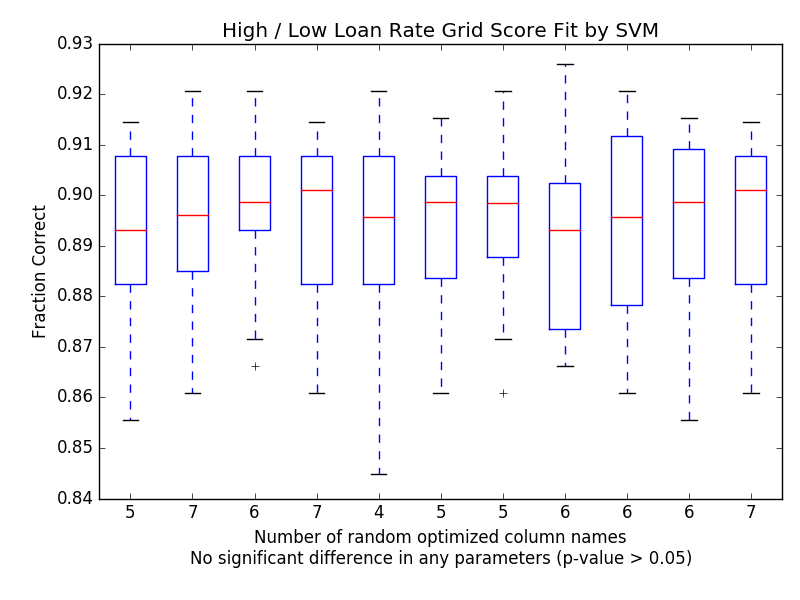
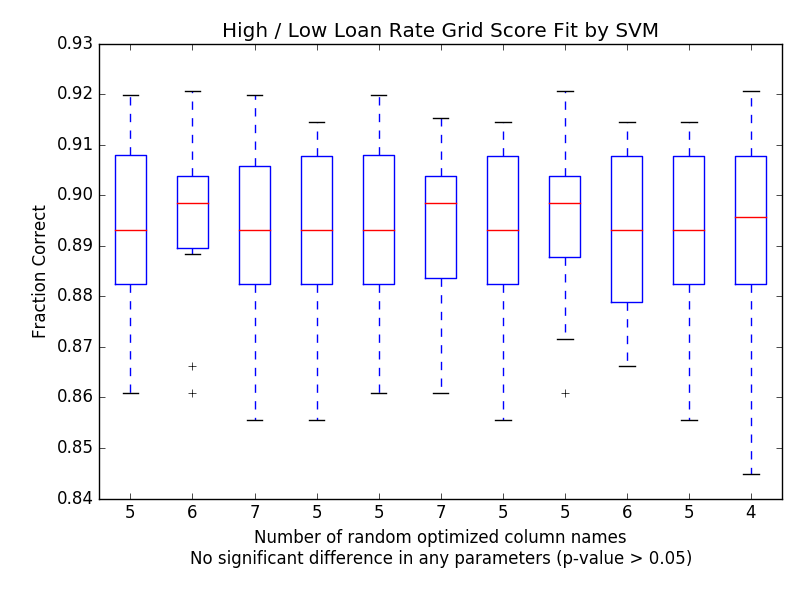
refactor methods to use parameterization

diff --git a/svm_predict.py b/svm_predict.py
@@ -16,14 +16,21 @@ import scipy.stats as sst
 from naive_bayes import read_data, get_var_str
 
 
+def get_app():
+    return 'SVM'
+
+def get_plotdir():
+    "get plot directory"
+    return 'svm_predict_plots/'
+
 def make_plotdir():
-    '''Make and return plot directory.'''
-    plotdir = 'svm_predict_plots/'
+    "make plot directory on file system"
+    plotdir = get_plotdir()
     if not os.access(plotdir, os.F_OK):
         os.mkdir(plotdir)
     return plotdir
 
-def gridscore_boxplot(gslist, plotdir, label, xlabel):
+def gridscore_boxplot(gslist, plotdir, app, label, xlabel):
     '''Set up boxplot of grid scores.'''
     vals = list(map(lambda e: e.cv_validation_scores, gslist))
     labs = list(map(lambda e: list(e.parameters.values()), gslist))
@@ -39,9 +46,9 @@ def gridscore_boxplot(gslist, plotdir, label, xlabel):
         xpar = xpar[0]
     xlabel = "Parameters: " + xpar + " (with " + xlabel + ")"
     plotfile = plotdir + "gridscore_" + label
-    do_boxplot(vals, labs, xlabel, plotfile)
+    do_boxplot(vals, labs, app, xlabel, plotfile)
 
-def do_boxplot(vals, labs, xlabel, plotfile):
+def do_boxplot(vals, labs, app, xlabel, plotfile):
     '''Create boxplot of value arrays with t-tests.'''
     is_sig = do_ttests(vals)
     if is_sig:
@@ -50,7 +57,7 @@ def do_boxplot(vals, labs, xlabel, plotfile):
         sig = "No significant difference in any parameters (p-value > 0.05)"
     plt.clf()
     plt.boxplot(vals, labels=labs)
-    plt.title("High / Low Loan Rate Grid Score Fit by SVM")
+    plt.title("High / Low Loan Rate Grid Score Fit by " + app)
     plt.xlabel(xlabel + "\n" + sig)
     plt.ylabel("Fraction Correct")
     plt.tight_layout()
@@ -75,7 +82,7 @@ def do_ttests(vals):
         print("Significant difference between some parameters (p-values < 0.05).")
     return is_sig
     
-def plot_predict(plotdir, label, indep_variables, pred_df, theo=False):
+def plot_predict(plotdir, label, app, indep_variables, pred_df, theo=False):
     '''Plot predicted correct and incorrect target values.'''
     incorrect = pred_df[ pred_df['target'] != pred_df['predict'] ]
     correct   = pred_df[ pred_df['target'] == pred_df['predict'] ]
@@ -93,7 +100,7 @@ def plot_predict(plotdir, label, indep_variables, pred_df, theo=False):
     plt.yticks(locs, map(lambda x: '$'+str(int(x/1000))+'k', locs))
     plt.xlabel('FICO Score')
     plt.ylabel('Loan Amount Requested, USD')
-    plt.title('SVM Predicted High / Low Interest Rate')
+    plt.title('High / Low Interest Rate Predicted by ' + app)
     score = 100 * float(len(correct)) / pred_df.shape[0]
     txt = "Score: %.1f%% correct" % (score)
     txt2 = "%d x, %d o" % (len(incorrect), len(correct))
@@ -104,6 +111,7 @@ def plot_predict(plotdir, label, indep_variables, pred_df, theo=False):
     txt, pos = get_var_str(indep_variables)
     plt.text(630, 38000 + 1500*(2-pos), txt, fontsize=10)
     pname = plotdir+label+'_svm_intrate_'
+# needs name refactoring
     if (theo):
         pname += 'theo'
     else:
@@ -127,11 +135,6 @@ def load_data():
     
     return loans_df, loans_y, test_df, test_y, all_numeric_vars
 
-def get_pred_df(test_df):
-    '''Init predicted variable dataframe, used for plotting.'''
-    two_variables = ['FICO.Score', 'Amount.Requested']
-    return pd.DataFrame( test_df[two_variables] )
-
 def scale_train_data(loans_df, print_out=False):
     '''Scale data for svm transform, read dataframe, return nparray.'''
     scaler = StandardScaler()
@@ -146,39 +149,34 @@ def scale_train_data(loans_df, print_out=False):
 def scale_test_data(scaler, test_df):
     return scaler.transform(test_df)
 
-def do_fit(loans_X, loans_y, print_out=False):
+def do_fit(clf, loans_X, loans_y, print_out=False):
     '''Fit training data.  Only for modeling use.'''
-    svc = svm.SVC(kernel='linear', C=0.1, cache_size=1000)
-    svc.fit(loans_X, loans_y)
-    fit_score = svc.score(loans_X, loans_y)
+    clf.fit(loans_X, loans_y)
+    fit_score = clf.score(loans_X, loans_y)
     if print_out:
-        print("svc params", svc.get_params())
-        print("svm fit done, score %.5f" % fit_score)  # 0.897
-    return svc, fit_score
+        print("params", clf.get_params())
+        print("fit done, score %.5f" % fit_score)  # 0.897
+    return fit_score
 
-def do_predict(svc, test_X, test_y, print_out=False):
+def do_predict(clf, test_X, test_y, print_out=False):
     '''Predict test data.  For modeling and production use.'''
-    pred_y = svc.predict( test_X )
+    pred_y = clf.predict( test_X )
     pred_correct = sum(pred_y == test_y)  # 0.909
     pred_score = pred_correct/test_y.shape[0]
     if print_out:
-        print("svm pred score %.5f (%d of %d)" % \
+        print("pred score %.5f (%d of %d)" % \
           (pred_score, pred_correct, test_y.shape[0]))
     return pred_y
-    
-def fit_predict(loans_X, loans_y, test_X, test_y):
-    '''Fit training data, predict pseudo-test data.  Only for modeling use.'''
-    svc, fit_score = do_fit(loans_X, loans_y, print_out=True)
-    pred_y = do_predict(svc, test_X, test_y, print_out=True)
-    return pred_y
 
-def set_predict_plot(pred_df, test_y, pred_y, indep_vars, label, plotdir):
+def predict_frame(test_df, test_y, pred_y):
     '''Plot predicted data.'''
+    two_variables = ['FICO.Score', 'Amount.Requested']
+    pred_df = pd.DataFrame( test_df[two_variables] )
     pred_df['target'] = test_y
     pred_df['predict'] = pred_y
-    plot_predict(plotdir, label, indep_vars, pred_df)
+    return pred_df
 
-def explore_params(loans_X, loans_y, plotdir):
+def explore_params(loans_X, loans_y, app, plotdir):
     '''Explore fit parameters on training data,
        grid search of fit scores, boxplot gridsearch results.'''
     clf = svm.SVC(kernel='linear', cache_size=1000)  # 3.1 s
@@ -191,7 +189,7 @@ def explore_params(loans_X, loans_y, plotdir):
       (gs.best_score_, gs.best_params_, gs.best_estimator_))
     # how to test if scores are significantly different?  stats!
 #    is_sig = do_ttests(gs.grid_scores_)
-    gridscore_boxplot(gs.grid_scores_, plotdir, "C", "kernel='linear'")
+    gridscore_boxplot(gs.grid_scores_, plotdir, app, "C", "kernel='linear'")
     
     clf = svm.SVC(kernel='rbf', cache_size=1000)  # 4.5 s
     param_grid = [{'gamma': [0.01, 0.03, 0.1, 0.3, 1.0, 3.0, 10.0]}]
@@ -201,7 +199,7 @@ def explore_params(loans_X, loans_y, plotdir):
     print("gs grid scores\n", gs.grid_scores_)
     print("gs best score %.5f %s\n%s" % \
       (gs.best_score_, gs.best_params_, gs.best_estimator_))
-    gridscore_boxplot(gs.grid_scores_, plotdir, "rbf_gamma", "kernel='rbf'")
+    gridscore_boxplot(gs.grid_scores_, plotdir, app, "rbf_gamma", "kernel='rbf'")
 
     clf = svm.SVC(kernel='rbf', cache_size=1000)  # 6.5 s
     param_grid = [{'gamma': [0.01, 0.03, 0.1, 0.3, 1.0], \
@@ -212,7 +210,7 @@ def explore_params(loans_X, loans_y, plotdir):
     print("gs grid scores\n", gs.grid_scores_)
     print("gs best score %.5f %s\n%s" % \
       (gs.best_score_, gs.best_params_, gs.best_estimator_))
-    gridscore_boxplot(gs.grid_scores_, plotdir, "rbf_gammaC", "kernel='rbf'")
+    gridscore_boxplot(gs.grid_scores_, plotdir, app, "rbf_gammaC", "kernel='rbf'")
 
     clf = svm.LinearSVC()   # 1.6 s  fast
     param_grid = [{'C': [0.01, 0.03, 0.1, 0.3, 1.0, 3.0, 10.0]}]
@@ -223,11 +221,10 @@ def explore_params(loans_X, loans_y, plotdir):
     print("gs grid scores\n", gs.grid_scores_)
     print("gs best score %.5f %s\n%s" % \
       (gs.best_score_, gs.best_params_, gs.best_estimator_))
-    gridscore_boxplot(gs.grid_scores_, plotdir, "LinearSVC", "LinearSVC")
+    gridscore_boxplot(gs.grid_scores_, plotdir, app, "LinearSVC", "LinearSVC")
 
-def cross_validate(loans_X, loans_y, print_out=False):
+def cross_validate(clf, loans_X, loans_y, print_out=False):
     '''Cross-validate fit scores.'''
-    clf = svm.SVC(kernel='linear', C=1.0, cache_size=1000)
     scores = cross_validation.cross_val_score(clf, loans_X, loans_y, cv=10)
     score = np.mean(scores)
     score_std = np.std(scores)
@@ -236,26 +233,25 @@ def cross_validate(loans_X, loans_y, print_out=False):
         print("CV raw scores", scores)
     return score, score_std, scores
 
-def get_cv_score(varlist, loans_df, loans_y):
+def get_cv_score(clf, varlist, loans_df, loans_y):
     '''Get cross-validated score from scaled data
        selected from variable list.  Used for varlist opt.'''
     loans_X, my_scaler = scale_train_data( loans_df[varlist] )
-# could return scores, compare t-tests
-    return cross_validate(loans_X, loans_y)
+    return cross_validate(clf, loans_X, loans_y)
 
-def random_opt(varlist, init_list, loans_df, loans_y):
+def random_opt(clf, varlist, init_list, loans_df, loans_y):
     '''Optimize list by randomly adding variables,
        accept if score decreases to find local minimum.'''
 
     vlist = list(init_list)
-    score, vstd, vscores = get_cv_score(vlist, loans_df, loans_y)
+    score, vstd, vscores = get_cv_score(clf, vlist, loans_df, loans_y)
     offset = len(vlist)  # offset by length of initial vlist
     indices = list(range(len(varlist) - offset))
     rnd.shuffle(indices)
     for ix in indices:
         ilist = list(vlist)
         ilist.append(varlist[ix + offset])
-        iscore, istd, iscores = get_cv_score(ilist, loans_df, loans_y)
+        iscore, istd, iscores = get_cv_score(clf, ilist, loans_df, loans_y)
         if iscore > score:
             vlist = list(ilist)
             score, vstd, vscores = iscore, istd, iscores
@@ -264,17 +260,17 @@ def random_opt(varlist, init_list, loans_df, loans_y):
     print("vlist %s" % (vlist))
     return score, vlist, vscores
 
-def run_opt(all_numeric_vars, loans_df, loans_y):
+def run_opt(clf, all_numeric_vars, loans_df, loans_y, app):
     '''Run randomized optimization with full list of independent numeric variables.
        Repeat many times to find global minimum.'''
 
     print('\nall_vars', all_numeric_vars)
     init_list = [all_numeric_vars[0], all_numeric_vars[1]]
     opt_list = list(init_list)
-    opt_score, ostd, oscores = get_cv_score(opt_list, loans_df, loans_y)
+    opt_score, ostd, oscores = get_cv_score(clf, opt_list, loans_df, loans_y)
     opt_raw_list = []
     for ix in range(len(all_numeric_vars)):
-        score, vlist, vscores = random_opt(all_numeric_vars, init_list, loans_df, loans_y)
+        score, vlist, vscores = random_opt(clf, all_numeric_vars, init_list, loans_df, loans_y)
         opt_raw_list.append({'plen': len(vlist), 'pscores': vscores})
         if score > opt_score:
             opt_list = vlist
@@ -282,8 +278,9 @@ def run_opt(all_numeric_vars, loans_df, loans_y):
 
     do_boxplot(list(map(lambda e: e['pscores'], opt_raw_list)), 
         list(map(lambda e: e['plen'], opt_raw_list)), 
+        app,
         "Number of random optimized column names",
-        make_plotdir()+"opt_params_boxplot")
+        get_plotdir() + "opt_params_boxplot")
     print(">>> opt len %d, opt_score %.4f" % (len(opt_list), opt_score))
     print("opt_list %s" % (opt_list))
     return opt_score, opt_list
@@ -291,37 +288,48 @@ def run_opt(all_numeric_vars, loans_df, loans_y):
 # main program
 def main():
     '''Main program.'''
+    app = get_app()
     loans_df, loans_y, test_df, test_y, all_numeric_vars = load_data()
+    indep_vars = all_numeric_vars
     loans_X, my_scaler = scale_train_data(loans_df, print_out=True)
     test_X = scale_test_data(my_scaler, test_df)
     plotdir = make_plotdir()
-    svc, fit_score = do_fit(loans_X, loans_y, print_out=True)
-    pred_y = do_predict(svc, test_X, test_y, print_out=True)
-    indep_vars = all_numeric_vars
-    pred_df = get_pred_df(test_df)
-    set_predict_plot(pred_df, test_y, pred_y, indep_vars, "allvar", plotdir)    
-    explore_params(loans_X, loans_y, plotdir)
-    cross_validate(loans_X, loans_y, print_out=True)
+    
+    clf = svm.SVC(kernel='linear', C=1, cache_size=1000)
+    do_fit(clf, loans_X, loans_y, print_out=True)
+    pred_y = do_predict(clf, test_X, test_y, print_out=True)
+    pred_df = predict_frame(test_df, test_y, pred_y)    
+    plot_predict(plotdir, "allvar", app, indep_vars, pred_df)
+    explore_params(loans_X, loans_y, app, plotdir)
+    
+    clf = svm.SVC(kernel='linear', C=1, cache_size=1000)
+    cross_validate(clf, loans_X, loans_y, print_out=True)
+    # what's the point of above 2 lines?  test sub-method on train data?
     
     # test optimization sub-method
     indep_vars = ['FICO.Score', 'Amount.Requested', 'Home.Type']
-    score, sstd, sscores = get_cv_score(indep_vars, loans_df, loans_y)
+    score, sstd, sscores = get_cv_score(clf, indep_vars, loans_df, loans_y)
     print("cv score: %.5f +- %.5f for %s" % (score, sstd, indep_vars))
 
 #   run optimization routine    
-    opt_score, opt_list = run_opt(all_numeric_vars, loans_df, loans_y)
+    clf = svm.SVC(kernel='linear', C=1, cache_size=1000)
+    opt_score, opt_list = run_opt(clf, all_numeric_vars, loans_df, loans_y, app)
 # optimums found all have the same score within std dev: 0.89 +- 0.03
 # svm is therefore less influenced by parameters chosen than naive_bayes
 
 #   plot results of optimized list
+    clf = svm.SVC(kernel='linear', C=1, cache_size=1000)
     loans_X, my_scaler = scale_train_data( loans_df[opt_list] )
     test_X = scale_test_data(my_scaler, test_df[opt_list])
-    cross_validate(loans_X, loans_y, print_out=True)
-    svc, fit_score = do_fit(loans_X, loans_y, print_out=True)
-    # optimum svc model from do_fit, use in do_predict
-    pred_y = do_predict(svc, test_X, test_y, print_out=True)
-#    pred_y = fit_predict(loans_X, loans_y, test_X, test_y)
-    set_predict_plot(pred_df, test_y, pred_y, opt_list, "optvar", plotdir)    
+    cross_validate(clf, loans_X, loans_y, print_out=True)
+    
+    # clf should come from opt?  or just opt_list?
+    clf = svm.SVC(kernel='linear', C=1, cache_size=1000)
+    do_fit(clf, loans_X, loans_y, print_out=True)
+    # optimum clf model from do_fit, use in do_predict
+    pred_y = do_predict(clf, test_X, test_y, print_out=True)
+    pred_df = predict_frame(test_df, test_y, pred_y)    
+    plot_predict(plotdir, "optvar", app, opt_list, pred_df)
 
 if __name__ == '__main__':
     main()

diff --git a/naive_bayes.py b/naive_bayes.py
@@ -35,7 +35,7 @@ def read_data():
     loansData['FICO.Score'] = loansData['FICO.Range'].apply(splitSum)
     loansData['Home.Type'] = loansData['Home.Ownership'].apply(own_to_num)
     loansData['Loan.Purpose.Score'] = loansData['Loan.Purpose'].apply(purpose_to_num)
-    loansData['Intercept'] = 1
+#    loansData['Intercept'] = 1
     
     dsize = loansData.shape[0] * 3 // 4
     testData = loansData[dsize:]
@@ -106,7 +106,7 @@ def plot_predict(label, score, indep_variables, correct, incorrect, theo=False):
     plt.yticks(locs, map(lambda x: '$'+str(int(x/1000))+'k', locs))
     plt.xlabel('FICO Score')
     plt.ylabel('Loan Amount Requested, USD')
-    plt.title('Naive Bayes Predicted Interest Rate Class')
+    plt.title('High / Low Interest Rate Predicted by Naive Bayes')
     total_pts = correct.shape[0] + incorrect.shape[0]
     sc = 100 * float(score) / total_pts
     txt = "Score: %.1f%% correct   (%d x pts)" % (sc, total_pts - score)
